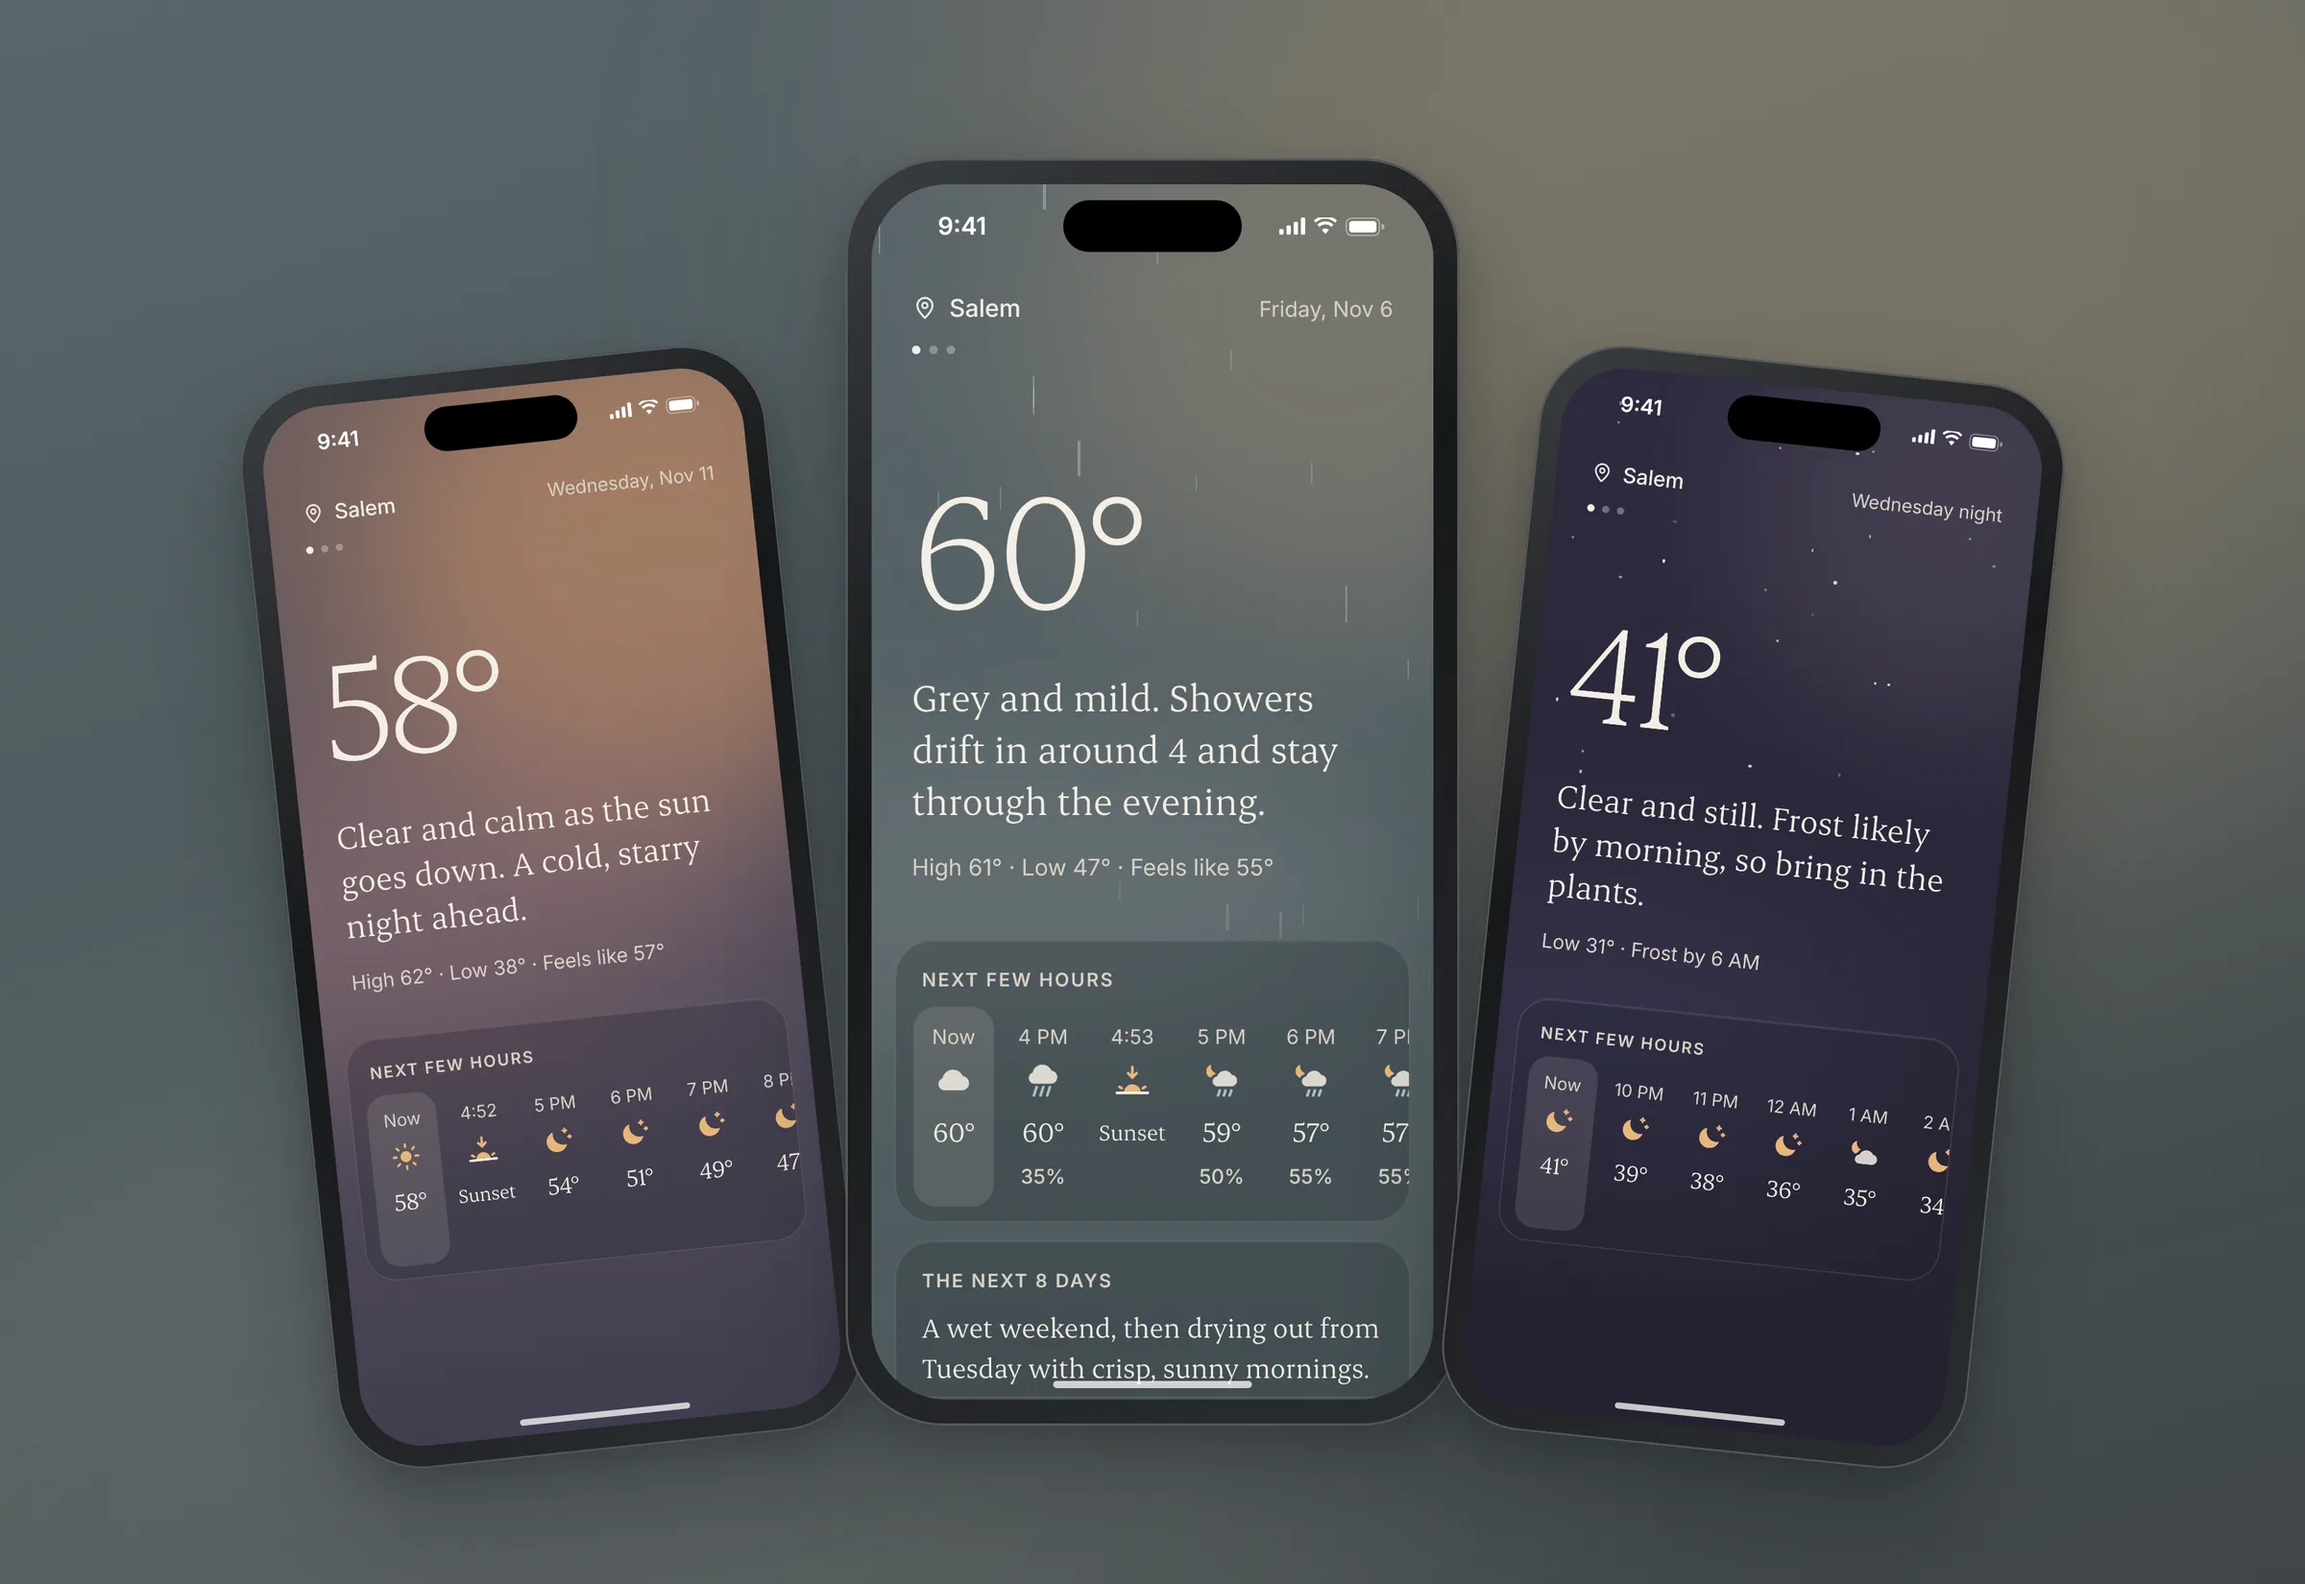
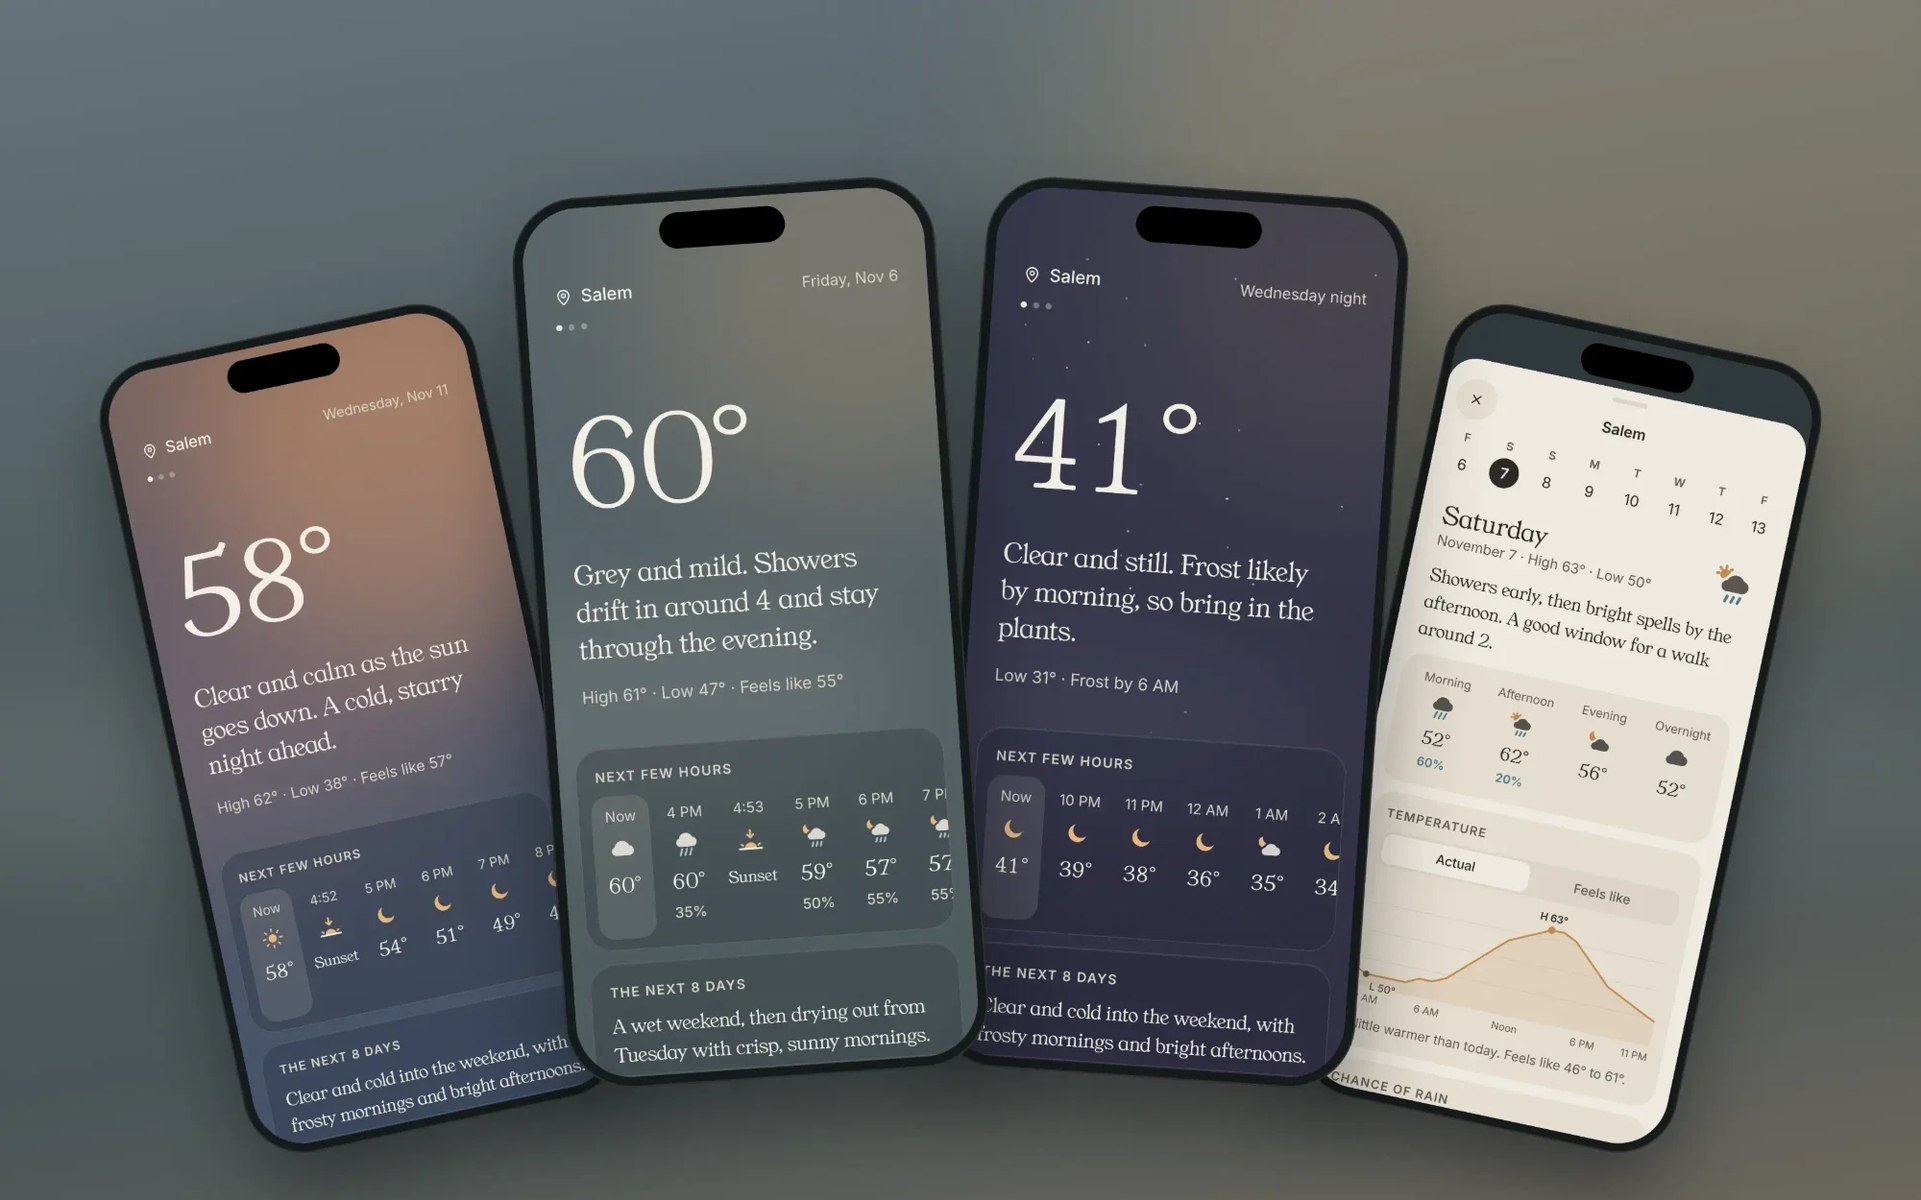
Utu: use David's four-phone image, with alt text to match
Claude-Session: https://claude.ai/code/session_01PCTozQb23zVjz1M15wtUfx

diff --git a/src/data/projects.ts b/src/data/projects.ts
@@ -37,7 +37,7 @@ export const projects: Project[] = [
     line: 'A calm iPhone weather app that tells you the forecast in a plain-English sentence, then shows the numbers.',
     shot: {
       src: utuShot,
-      alt: 'Three iPhones showing Utu at golden hour, on a drizzly afternoon, and on a clear night, each with a large temperature and a one-sentence forecast.',
+      alt: 'Four iPhones showing Utu: golden hour, a drizzly afternoon, and a clear night, each with a large temperature and a one-sentence forecast, and the detail sheet for Saturday with parts of the day and a temperature curve.',
     },
   },
   {

diff --git a/CLAUDE.md b/CLAUDE.md
@@ -141,7 +141,7 @@ These are the only claims and numbers allowed. Never invent or round up a number
 - **How I build:** every project starts with a brief that says who it's for, the rules the agent can't break, and a done test for each step. The Firn rules quoted in the mockup are real. David cares about how software feels, not just how it looks: it should be pretty to look at, easy to use, and fun (David, 2026-11-10).
 - **Music:** David sings, writes, and produces in My Brothers And I. The band has placements on Virgin River, Pretty Little Liars, Queen Sugar, and others through Secret Road.
 - **Background:** David started in shipping in 2019 and is based in Salem, Oregon.
-- **Utu Weather:** David's next app, in development and not out yet. The name, said "OO-too", is Finnish for haze or mist. Built with SwiftUI, WeatherKit, and WidgetKit. "Utu Weather is a calm iPhone weather app that writes the forecast as a plain-English sentence first and puts the numbers second, like 'Grey and mild. Showers drift in around 4 and stay through the evening.' It has soft, hazy skies, gentle motion and widgets that answer questions directly ('Umbrella? Yes, after 4.'). Weather, without the noise." Short version: "A calm iPhone weather app that tells you the forecast in a plain-English sentence, then shows the numbers." Its site, utuweather.com, is live. (David, 2026-11-10.) Its images are design mockups, not screenshots of a shipped app; label them that way. The hero image is `assets/work/utu.webp`; the full set of mockups David sent is not in the repo.
+- **Utu Weather:** David's next app, in development and not out yet. The name, said "OO-too", is Finnish for haze or mist. Built with SwiftUI, WeatherKit, and WidgetKit. "Utu Weather is a calm iPhone weather app that writes the forecast as a plain-English sentence first and puts the numbers second, like 'Grey and mild. Showers drift in around 4 and stay through the evening.' It has soft, hazy skies, gentle motion and widgets that answer questions directly ('Umbrella? Yes, after 4.'). Weather, without the noise." Short version: "A calm iPhone weather app that tells you the forecast in a plain-English sentence, then shows the numbers." Its site, utuweather.com, is live. (David, 2026-11-10.) Its images are design mockups, not screenshots of a shipped app; label them that way. The hero image is `assets/work/utu.webp` (four phones, 2026-11-11); the full set of mockups David sent is not in the repo.
 - **The apps together:** Firn, Utu, and Nynna are "the David Wurgler apps." Ask David for Nynna's facts before showing it.
 - **"Who's making it" (from David's app sites, 2026-11-10, approved wording):** "I'm David. I design and build software, and I live in Salem, Oregon, with my wife and our two boys. I'm also a songwriter: a few of my songs have ended up on network TV, and I play in a band called My Brothers And I." / "I make these apps with Claude, an AI from Anthropic, as my coding partner. I decide what each app is and how it should feel: the design, the details, the way it behaves. Claude and I write the code together and catch each other's mistakes." / "I build the things I wish already existed: quiet, well-made tools that respect your time and your privacy. If one of them makes your day a little calmer, that's the whole point." Reuse its facts and voice here; adapt it, don't paste it whole.
 
@@ -210,7 +210,7 @@ Any new photo must have its metadata (including GPS) stripped before it is commi
 - **2026-11-11, Say hi two-copy clip:** the ink "Say hi." now sits exactly where the one on the photo does, so it changes colour at the photo's edge like the hero. Merged to `main` (David said to).
 - **2026-11-11, Off the clock on iPhone:** the strip sat blank in Safari; it now reads the same scroll-driven `--p` as the hero and Say hi. Merged to `main` (David said to); waiting for David to check on his phone.
 - **2026-11-11, Who's making this:** David's headshot as a print beside "I'm David." and a short adaptation of the approved "Who's making it" copy, just before Say hi (David chose this over having the lake cover the headshot). Merged to `main` (David said to).
-- **2026-11-11, Utu image in Erode:** `assets/work/utu.webp` swapped for David's new render with Utu's new font (Erode replaces Newsreader); same framing and size.
+- **2026-11-11, Utu image in Erode:** `assets/work/utu.webp` swapped for David's new render with Utu's new font (Erode replaces Newsreader); then replaced the same day with David's four-phone image (three skies and the Saturday detail sheet).
 - **Waiting on David:** see the end of `docs/PLAN.md`. Worker Previews are not turned on yet.
 
 Details and reasoning live in `docs/HISTORY.md`, not here.
